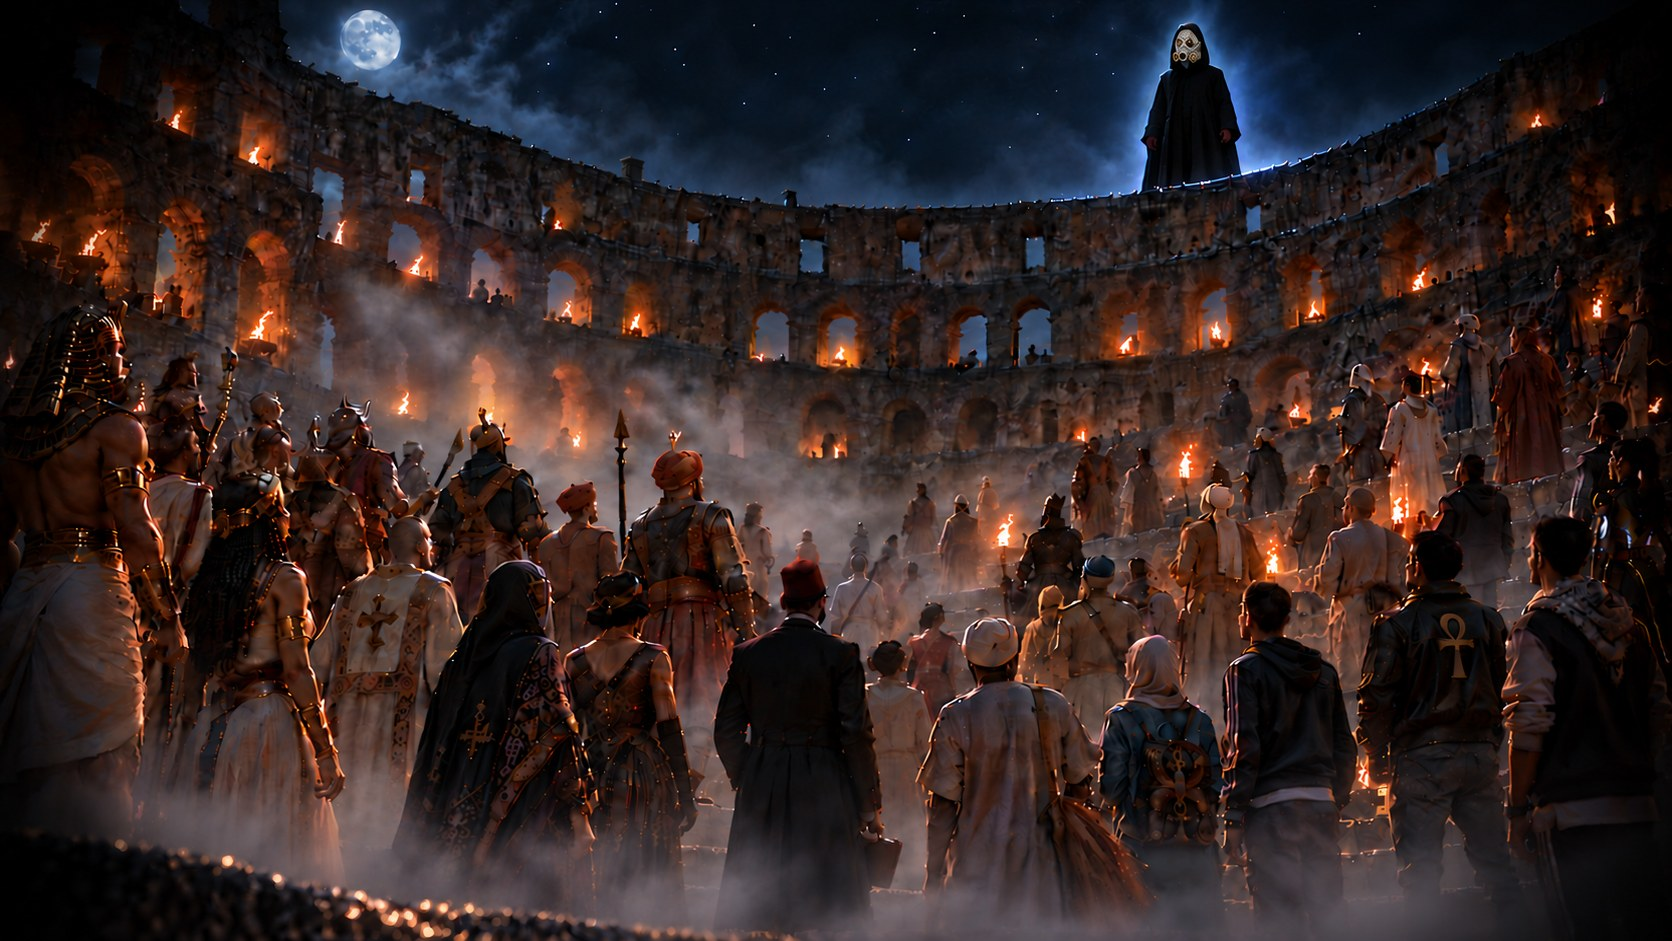
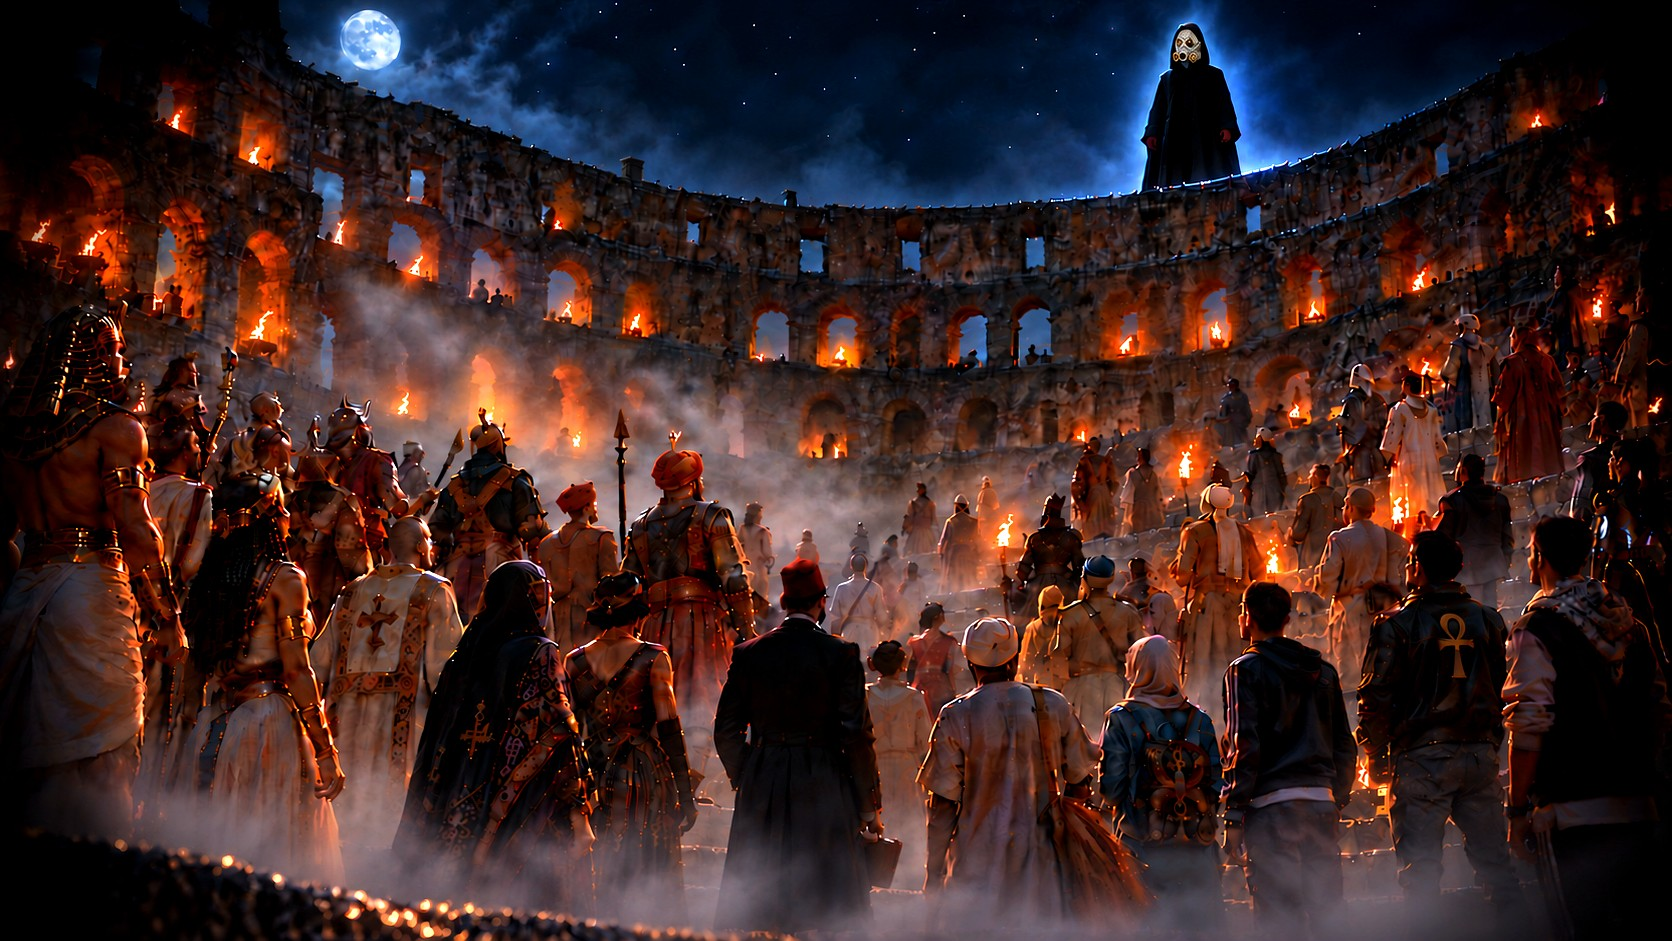
Vivid artwork, lighter overlay, neutral title

diff --git a/index.html b/index.html
@@ -3,17 +3,17 @@
 <head>
 <meta charset="utf-8">
 <meta name="viewport" content="width=device-width, initial-scale=1">
-<title>كريستاليا — العد التنازلي</title>
-<meta name="description" content="عدّاد تنازلي مباشر حتى صدور رواية «كريستاليا» في ٥ يناير ٢٠٢٨.">
-<meta property="og:title" content="كريستاليا — العد التنازلي">
-<meta property="og:description" content="عدّاد تنازلي مباشر حتى صدور رواية «كريستاليا» في ٥ يناير ٢٠٢٨.">
+<title>العد التنازلي</title>
+<meta name="description" content="عدّاد تنازلي مباشر حتى ٥ يناير ٢٠٢٨.">
+<meta property="og:title" content="العد التنازلي">
+<meta property="og:description" content="عدّاد تنازلي مباشر حتى ٥ يناير ٢٠٢٨.">
 <meta property="og:image" content="./photos/colosseum.jpg">
 <link rel="stylesheet" href="./style.css">
 </head>
 <body>
 <div class="zero-hero">
     <div class="zero-shade">
-        <div class="zero-clock" dir="ltr" id="zero-content" role="timer" aria-label="الوقت المتبقي حتى الإصدار"></div>
+        <div class="zero-clock" dir="ltr" id="zero-content" role="timer" aria-label="الوقت المتبقي"></div>
     </div>
 </div>
 <script src="./app.js"></script>

diff --git a/style.css b/style.css
@@ -111,7 +111,7 @@ body { background: #060a14; }
     justify-content: center;
     text-align: center;
     padding: 56px 20px;
-    background: radial-gradient(ellipse at center, rgba(3, 5, 12, 0.45) 0%, rgba(3, 5, 12, 0.12) 55%, rgba(3, 5, 12, 0) 100%);
+    background: radial-gradient(ellipse at center, rgba(3, 5, 12, 0.16) 0%, rgba(3, 5, 12, 0.05) 55%, rgba(3, 5, 12, 0) 100%);
 }
 
 .zero-clock {
@@ -137,9 +137,11 @@ body { background: #060a14; }
     letter-spacing: 0.02em;
     color: #f8efdb;
     text-shadow:
-        0 0 12px rgba(216, 178, 92, 0.45),
-        0 0 42px rgba(224, 105, 58, 0.35),
-        0 6px 30px rgba(0, 0, 0, 0.95);
+        0 0 10px rgba(255, 236, 190, 0.55),
+        0 0 34px rgba(216, 178, 92, 0.55),
+        0 0 70px rgba(224, 105, 58, 0.45),
+        0 3px 10px rgba(0, 0, 0, 0.95),
+        0 8px 34px rgba(0, 0, 0, 0.9);
 }
 
 .zero-sep {
@@ -157,7 +159,7 @@ body { background: #060a14; }
     font-size: clamp(15px, 2.2vw, 22px);
     font-weight: 700;
     color: rgba(240, 226, 190, 0.85);
-    text-shadow: 0 2px 12px rgba(0, 0, 0, 0.85);
+    text-shadow: 0 1px 6px rgba(0, 0, 0, 0.95), 0 2px 16px rgba(0, 0, 0, 0.9);
 }
 
 .zero-done {
